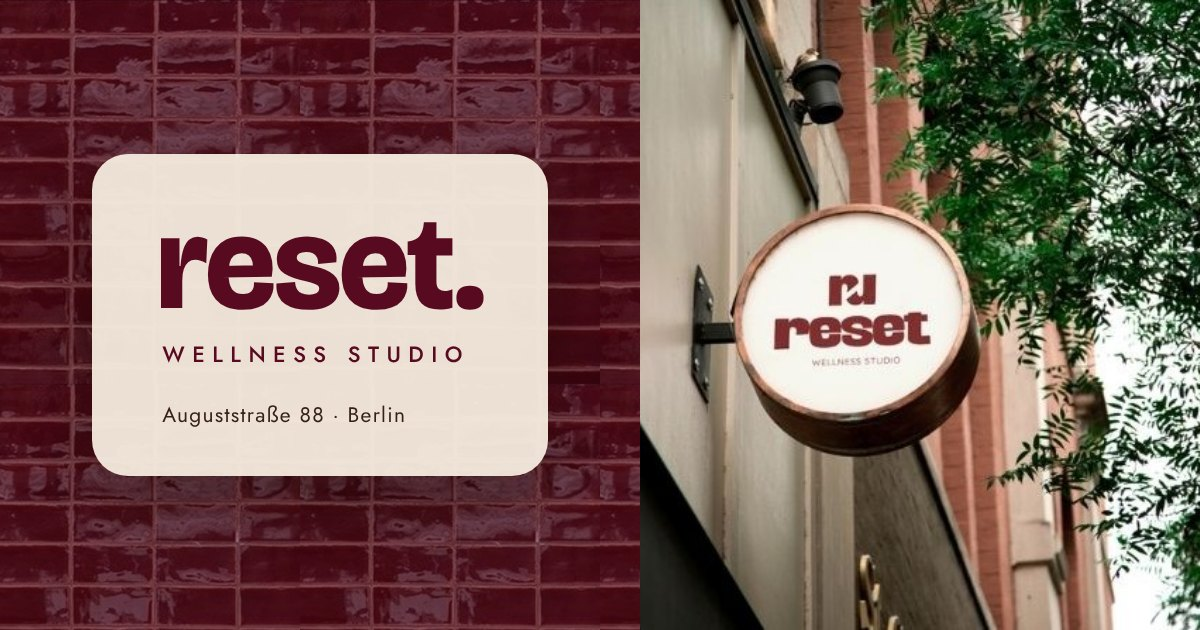
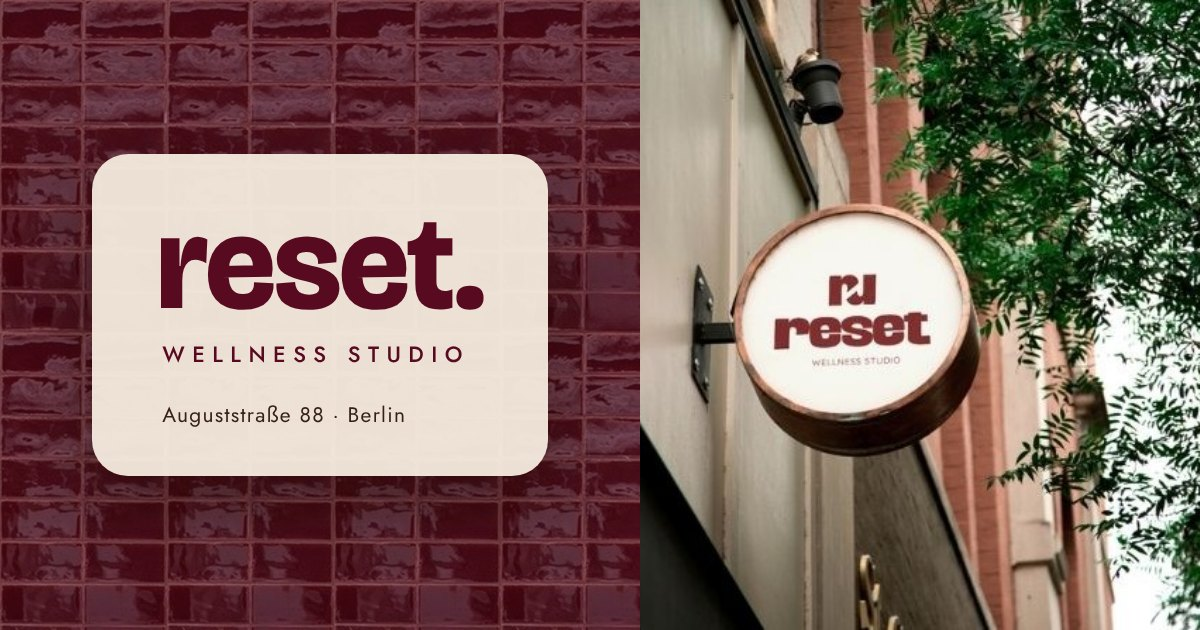
Seamless tile background; footer "Made with love in Berlin" (DE + EN)
- Tile texture cropped exactly on grout lines (2 × 8 tiles) so repeats join
  without half tiles or broken lines; saved as tile-grid.jpg (new name so
  browsers don't reuse the cached old image) and shown at 167px / 144px to
  keep the tiles the same size on screen
- Link preview image regenerated with the seamless tile
- Footer: "Made with love in Berlin" / "Mit Liebe gemacht in Berlin"

Claude-Session: https://claude.ai/code/session_01ANR34ngYs6qHQdxGYaBLbF

Changed region(s): [[0.0, 0.0, 0.555, 1.0]]

diff --git a/assets/css/site.css b/assets/css/site.css
@@ -29,18 +29,18 @@ h1,h2,h3{overflow-wrap:break-word;hyphens:manual}
 .btn-tier-dark:hover{background-color:#580a20 !important;color:#f7ede0 !important;border-color:#580a20 !important}
 .txt-link{text-decoration:none;border-bottom:1px solid currentColor;padding-bottom:3px;transition:opacity .2s ease}
 .txt-link:hover{opacity:.65}
-.tile-brown{background-color:#4a0b1b;background-image:linear-gradient(rgba(74,8,26,0.45),rgba(74,8,26,0.45)),url(../images/tile.jpg);background-size:auto,300px auto;background-attachment:fixed}
+.tile-brown{background-color:#4a0b1b;background-image:linear-gradient(rgba(74,8,26,0.45),rgba(74,8,26,0.45)),url(../images/tile-grid.jpg);background-size:auto,167px auto;background-attachment:fixed}
 .btn-dark{transition:background-color .3s ease,transform .3s ease}
 .btn-dark:hover{background-color:#580a20 !important;color:#f7ede0 !important;border-color:#580a20 !important;transform:translateY(-1px)}
 .btn-light{transition:background-color .3s ease,transform .3s ease}
 .btn-light:hover{background-color:#ffffff !important;color:#362017 !important;border-color:#ffffff !important;transform:translateY(-1px)}
-.tile-soft{background-color:#4a0b1b;background-image:linear-gradient(rgba(88,10,32,0.28),rgba(88,10,32,0.28)),url(../images/tile.jpg);background-size:auto,300px auto;background-attachment:fixed}
+.tile-soft{background-color:#4a0b1b;background-image:linear-gradient(rgba(88,10,32,0.28),rgba(88,10,32,0.28)),url(../images/tile-grid.jpg);background-size:auto,167px auto;background-attachment:fixed}
 .btn-wine{transition:background-color .3s ease}
 .btn-wine:hover{background-color:#362017 !important}
-.tile-plum{background-color:#4a0b1b;background-image:linear-gradient(rgba(88,10,32,0.42),rgba(88,10,32,0.42)),url(../images/tile.jpg);background-size:auto,300px auto;background-attachment:fixed}
+.tile-plum{background-color:#4a0b1b;background-image:linear-gradient(rgba(88,10,32,0.42),rgba(88,10,32,0.42)),url(../images/tile-grid.jpg);background-size:auto,167px auto;background-attachment:fixed}
 .btn-tier-wine{transition:background-color .3s ease}
 .btn-tier-wine:hover{background-color:#362017 !important;border-color:#362017 !important}
-.tile-bg{background-image:url(../images/tile.jpg);background-repeat:repeat;background-size:260px auto}
+.tile-bg{background-image:url(../images/tile-grid.jpg);background-repeat:repeat;background-size:144px auto}
 @keyframes rs-spin{to{transform:rotate(360deg)}}
 @keyframes rs-marquee{to{transform:translateX(-50%)}}
 @keyframes rs-float{0%,100%{transform:translate(0,0) scale(1)}50%{transform:translate(28px,-22px) scale(1.06)}}
@@ -77,7 +77,7 @@ h1,h2,h3{overflow-wrap:break-word;hyphens:manual}
 
 /* phone */
 @media (max-width: 700px){
-  .tile-plum,.tile-brown,.tile-soft{background-color:#4a0b1b;background-image:linear-gradient(rgba(88,10,32,0.28),rgba(88,10,32,0.28)),url(../images/tile.jpg);background-size:auto,300px auto;background-attachment:fixed}
+  .tile-plum,.tile-brown,.tile-soft{background-color:#4a0b1b;background-image:linear-gradient(rgba(88,10,32,0.28),rgba(88,10,32,0.28)),url(../images/tile-grid.jpg);background-size:auto,167px auto;background-attachment:fixed}
   [style*="grid-template-columns: repeat(auto-fit"]{grid-template-columns:minmax(0, 1fr) !important}
   [style*="max-width: 1200px"],[style*="max-width: 1320px"],[style*="max-width: 1100px"]{padding-left:20px !important;padding-right:20px !important}
   [data-sec]{padding-top:64px !important;padding-bottom:64px !important;min-height:0 !important}

diff --git a/de/agb.html b/de/agb.html
@@ -23,8 +23,8 @@
 <style>
 body{margin:0;background:#f7ede0}
 a{color:#580a20}a:hover{color:#362017}
-.tile-brown{background-color:#4a0b1b;background-image:linear-gradient(rgba(74,8,26,0.45),rgba(74,8,26,0.45)),url(../assets/images/tile.jpg);background-size:auto,300px auto;background-attachment:fixed}
-.tile-plum{background-color:#4a0b1b;background-image:linear-gradient(rgba(88,10,32,0.42),rgba(88,10,32,0.42)),url(../assets/images/tile.jpg);background-size:auto,300px auto;background-attachment:fixed}
+.tile-brown{background-color:#4a0b1b;background-image:linear-gradient(rgba(74,8,26,0.45),rgba(74,8,26,0.45)),url(../assets/images/tile-grid.jpg);background-size:auto,167px auto;background-attachment:fixed}
+.tile-plum{background-color:#4a0b1b;background-image:linear-gradient(rgba(88,10,32,0.42),rgba(88,10,32,0.42)),url(../assets/images/tile-grid.jpg);background-size:auto,167px auto;background-attachment:fixed}
 </style>
 </head>
 <body>
@@ -222,7 +222,7 @@ Sa  9 bis 17 Uhr</div>
 </div>
 <div style="border-top: 1px solid rgba(247,237,224,0.16); padding-top: 22px; display: flex; flex-wrap: wrap; justify-content: space-between; gap: 12px; font-size: 12.5px; letter-spacing: 0.08em; opacity: 0.75">
 <span>© 2026 Reset Wellness</span>
-<span>Mit Ruhe gemacht in Berlin</span>
+<span>Mit Liebe gemacht in Berlin</span>
 </div>
 </div>
 </footer>

diff --git a/de/datenschutz.html b/de/datenschutz.html
@@ -23,8 +23,8 @@
 <style>
 body{margin:0;background:#f7ede0}
 a{color:#580a20}a:hover{color:#362017}
-.tile-brown{background-color:#4a0b1b;background-image:linear-gradient(rgba(74,8,26,0.45),rgba(74,8,26,0.45)),url(../assets/images/tile.jpg);background-size:auto,300px auto;background-attachment:fixed}
-.tile-plum{background-color:#4a0b1b;background-image:linear-gradient(rgba(88,10,32,0.42),rgba(88,10,32,0.42)),url(../assets/images/tile.jpg);background-size:auto,300px auto;background-attachment:fixed}
+.tile-brown{background-color:#4a0b1b;background-image:linear-gradient(rgba(74,8,26,0.45),rgba(74,8,26,0.45)),url(../assets/images/tile-grid.jpg);background-size:auto,167px auto;background-attachment:fixed}
+.tile-plum{background-color:#4a0b1b;background-image:linear-gradient(rgba(88,10,32,0.42),rgba(88,10,32,0.42)),url(../assets/images/tile-grid.jpg);background-size:auto,167px auto;background-attachment:fixed}
 </style>
 </head>
 <body>
@@ -211,7 +211,7 @@ Sa  9 bis 17 Uhr</div>
 </div>
 <div style="border-top: 1px solid rgba(247,237,224,0.16); padding-top: 22px; display: flex; flex-wrap: wrap; justify-content: space-between; gap: 12px; font-size: 12.5px; letter-spacing: 0.08em; opacity: 0.75">
 <span>© 2026 Reset Wellness</span>
-<span>Mit Ruhe gemacht in Berlin</span>
+<span>Mit Liebe gemacht in Berlin</span>
 </div>
 </div>
 </footer>

diff --git a/de/impressum.html b/de/impressum.html
@@ -23,8 +23,8 @@
 <style>
 body{margin:0;background:#f7ede0}
 a{color:#580a20}a:hover{color:#362017}
-.tile-brown{background-color:#4a0b1b;background-image:linear-gradient(rgba(74,8,26,0.45),rgba(74,8,26,0.45)),url(../assets/images/tile.jpg);background-size:auto,300px auto;background-attachment:fixed}
-.tile-plum{background-color:#4a0b1b;background-image:linear-gradient(rgba(88,10,32,0.42),rgba(88,10,32,0.42)),url(../assets/images/tile.jpg);background-size:auto,300px auto;background-attachment:fixed}
+.tile-brown{background-color:#4a0b1b;background-image:linear-gradient(rgba(74,8,26,0.45),rgba(74,8,26,0.45)),url(../assets/images/tile-grid.jpg);background-size:auto,167px auto;background-attachment:fixed}
+.tile-plum{background-color:#4a0b1b;background-image:linear-gradient(rgba(88,10,32,0.42),rgba(88,10,32,0.42)),url(../assets/images/tile-grid.jpg);background-size:auto,167px auto;background-attachment:fixed}
 </style>
 </head>
 <body>
@@ -198,7 +198,7 @@ Sa  9 bis 17 Uhr</div>
 </div>
 <div style="border-top: 1px solid rgba(247,237,224,0.16); padding-top: 22px; display: flex; flex-wrap: wrap; justify-content: space-between; gap: 12px; font-size: 12.5px; letter-spacing: 0.08em; opacity: 0.75">
 <span>© 2026 Reset Wellness</span>
-<span>Mit Ruhe gemacht in Berlin</span>
+<span>Mit Liebe gemacht in Berlin</span>
 </div>
 </div>
 </footer>

diff --git a/en/legal-notice.html b/en/legal-notice.html
@@ -23,8 +23,8 @@
 <style>
 body{margin:0;background:#f7ede0}
 a{color:#580a20}a:hover{color:#362017}
-.tile-brown{background-color:#4a0b1b;background-image:linear-gradient(rgba(74,8,26,0.45),rgba(74,8,26,0.45)),url(../assets/images/tile.jpg);background-size:auto,300px auto;background-attachment:fixed}
-.tile-plum{background-color:#4a0b1b;background-image:linear-gradient(rgba(88,10,32,0.42),rgba(88,10,32,0.42)),url(../assets/images/tile.jpg);background-size:auto,300px auto;background-attachment:fixed}
+.tile-brown{background-color:#4a0b1b;background-image:linear-gradient(rgba(74,8,26,0.45),rgba(74,8,26,0.45)),url(../assets/images/tile-grid.jpg);background-size:auto,167px auto;background-attachment:fixed}
+.tile-plum{background-color:#4a0b1b;background-image:linear-gradient(rgba(88,10,32,0.42),rgba(88,10,32,0.42)),url(../assets/images/tile-grid.jpg);background-size:auto,167px auto;background-attachment:fixed}
 </style>
 </head>
 <body>
@@ -200,7 +200,7 @@ Sat  9am to 5pm</div>
 </div>
 <div style="border-top: 1px solid rgba(247,237,224,0.16); padding-top: 22px; display: flex; flex-wrap: wrap; justify-content: space-between; gap: 12px; font-size: 12.5px; letter-spacing: 0.08em; opacity: 0.75">
 <span>© 2026 Reset Wellness</span>
-<span>Made slowly in Berlin</span>
+<span>Made with love in Berlin</span>
 </div>
 </div>
 </footer>

diff --git a/en/privacy.html b/en/privacy.html
@@ -23,8 +23,8 @@
 <style>
 body{margin:0;background:#f7ede0}
 a{color:#580a20}a:hover{color:#362017}
-.tile-brown{background-color:#4a0b1b;background-image:linear-gradient(rgba(74,8,26,0.45),rgba(74,8,26,0.45)),url(../assets/images/tile.jpg);background-size:auto,300px auto;background-attachment:fixed}
-.tile-plum{background-color:#4a0b1b;background-image:linear-gradient(rgba(88,10,32,0.42),rgba(88,10,32,0.42)),url(../assets/images/tile.jpg);background-size:auto,300px auto;background-attachment:fixed}
+.tile-brown{background-color:#4a0b1b;background-image:linear-gradient(rgba(74,8,26,0.45),rgba(74,8,26,0.45)),url(../assets/images/tile-grid.jpg);background-size:auto,167px auto;background-attachment:fixed}
+.tile-plum{background-color:#4a0b1b;background-image:linear-gradient(rgba(88,10,32,0.42),rgba(88,10,32,0.42)),url(../assets/images/tile-grid.jpg);background-size:auto,167px auto;background-attachment:fixed}
 </style>
 </head>
 <body>
@@ -213,7 +213,7 @@ Sat  9am to 5pm</div>
 </div>
 <div style="border-top: 1px solid rgba(247,237,224,0.16); padding-top: 22px; display: flex; flex-wrap: wrap; justify-content: space-between; gap: 12px; font-size: 12.5px; letter-spacing: 0.08em; opacity: 0.75">
 <span>© 2026 Reset Wellness</span>
-<span>Made slowly in Berlin</span>
+<span>Made with love in Berlin</span>
 </div>
 </div>
 </footer>

diff --git a/en/terms.html b/en/terms.html
@@ -23,8 +23,8 @@
 <style>
 body{margin:0;background:#f7ede0}
 a{color:#580a20}a:hover{color:#362017}
-.tile-brown{background-color:#4a0b1b;background-image:linear-gradient(rgba(74,8,26,0.45),rgba(74,8,26,0.45)),url(../assets/images/tile.jpg);background-size:auto,300px auto;background-attachment:fixed}
-.tile-plum{background-color:#4a0b1b;background-image:linear-gradient(rgba(88,10,32,0.42),rgba(88,10,32,0.42)),url(../assets/images/tile.jpg);background-size:auto,300px auto;background-attachment:fixed}
+.tile-brown{background-color:#4a0b1b;background-image:linear-gradient(rgba(74,8,26,0.45),rgba(74,8,26,0.45)),url(../assets/images/tile-grid.jpg);background-size:auto,167px auto;background-attachment:fixed}
+.tile-plum{background-color:#4a0b1b;background-image:linear-gradient(rgba(88,10,32,0.42),rgba(88,10,32,0.42)),url(../assets/images/tile-grid.jpg);background-size:auto,167px auto;background-attachment:fixed}
 </style>
 </head>
 <body>
@@ -224,7 +224,7 @@ Sat  9am to 5pm</div>
 </div>
 <div style="border-top: 1px solid rgba(247,237,224,0.16); padding-top: 22px; display: flex; flex-wrap: wrap; justify-content: space-between; gap: 12px; font-size: 12.5px; letter-spacing: 0.08em; opacity: 0.75">
 <span>© 2026 Reset Wellness</span>
-<span>Made slowly in Berlin</span>
+<span>Made with love in Berlin</span>
 </div>
 </div>
 </footer>

diff --git a/de/kontakt.html b/de/kontakt.html
@@ -23,7 +23,7 @@
 <style>
 body{margin:0;background:#f7ede0}
 a{color:#580a20}a:hover{color:#362017}
-.tile-plum{background-color:#4a0b1b;background-image:linear-gradient(rgba(88,10,32,0.42),rgba(88,10,32,0.42)),url(../assets/images/tile.jpg);background-size:auto,300px auto;background-attachment:fixed}
+.tile-plum{background-color:#4a0b1b;background-image:linear-gradient(rgba(88,10,32,0.42),rgba(88,10,32,0.42)),url(../assets/images/tile-grid.jpg);background-size:auto,167px auto;background-attachment:fixed}
 .f-in{width:100%;box-sizing:border-box;min-height:52px;padding:14px 18px;border-radius:14px;border:1px solid rgba(54,32,23,0.28);background:rgba(255,255,255,0.5);font-family:'Glacial Indifference','Jost',sans-serif;font-size:16px;font-weight:300;color:#362017;transition:border-color .2s ease,background-color .2s ease}
 .f-in:hover{border-color:rgba(54,32,23,0.5)}
 .f-in:focus{outline:2px solid #580a20;outline-offset:2px}
@@ -185,7 +185,7 @@ Sa  9 bis 17 Uhr</div>
 </div>
 <div style="border-top: 1px solid rgba(247,237,224,0.16); padding-top: 22px; display: flex; flex-wrap: wrap; justify-content: space-between; gap: 12px; font-size: 12.5px; letter-spacing: 0.08em; opacity: 0.75">
 <span>© 2026 Reset Wellness</span>
-<span>Mit Ruhe gemacht in Berlin</span>
+<span>Mit Liebe gemacht in Berlin</span>
 </div>
 </div>
 </footer>

diff --git a/en/contact.html b/en/contact.html
@@ -23,7 +23,7 @@
 <style>
 body{margin:0;background:#f7ede0}
 a{color:#580a20}a:hover{color:#362017}
-.tile-plum{background-color:#4a0b1b;background-image:linear-gradient(rgba(88,10,32,0.42),rgba(88,10,32,0.42)),url(../assets/images/tile.jpg);background-size:auto,300px auto;background-attachment:fixed}
+.tile-plum{background-color:#4a0b1b;background-image:linear-gradient(rgba(88,10,32,0.42),rgba(88,10,32,0.42)),url(../assets/images/tile-grid.jpg);background-size:auto,167px auto;background-attachment:fixed}
 .f-in{width:100%;box-sizing:border-box;min-height:52px;padding:14px 18px;border-radius:14px;border:1px solid rgba(54,32,23,0.28);background:rgba(255,255,255,0.5);font-family:'Glacial Indifference','Jost',sans-serif;font-size:16px;font-weight:300;color:#362017;transition:border-color .2s ease,background-color .2s ease}
 .f-in:hover{border-color:rgba(54,32,23,0.5)}
 .f-in:focus{outline:2px solid #580a20;outline-offset:2px}
@@ -185,7 +185,7 @@ Sat  9am to 5pm</div>
 </div>
 <div style="border-top: 1px solid rgba(247,237,224,0.16); padding-top: 22px; display: flex; flex-wrap: wrap; justify-content: space-between; gap: 12px; font-size: 12.5px; letter-spacing: 0.08em; opacity: 0.75">
 <span>© 2026 Reset Wellness</span>
-<span>Made slowly in Berlin</span>
+<span>Made with love in Berlin</span>
 </div>
 </div>
 </footer>

diff --git a/de/ueber-uns.html b/de/ueber-uns.html
@@ -23,8 +23,8 @@
 <style>
 body{margin:0;background:#f7ede0}
 a{color:#580a20}a:hover{color:#362017}
-.tile-plum{background-color:#4a0b1b;background-image:linear-gradient(rgba(88,10,32,0.42),rgba(88,10,32,0.42)),url(../assets/images/tile.jpg);background-size:auto,300px auto;background-attachment:fixed}
-.tile-bg{background-image:url(../assets/images/tile.jpg);background-repeat:repeat;background-size:260px auto}
+.tile-plum{background-color:#4a0b1b;background-image:linear-gradient(rgba(88,10,32,0.42),rgba(88,10,32,0.42)),url(../assets/images/tile-grid.jpg);background-size:auto,167px auto;background-attachment:fixed}
+.tile-bg{background-image:url(../assets/images/tile-grid.jpg);background-repeat:repeat;background-size:144px auto}
 </style>
 </head>
 <body>
@@ -196,7 +196,7 @@ Sa  9 bis 17 Uhr</div>
 </div>
 <div style="border-top: 1px solid rgba(247,237,224,0.16); padding-top: 22px; display: flex; flex-wrap: wrap; justify-content: space-between; gap: 12px; font-size: 12.5px; letter-spacing: 0.08em; opacity: 0.75">
 <span>© 2026 Reset Wellness</span>
-<span>Mit Ruhe gemacht in Berlin</span>
+<span>Mit Liebe gemacht in Berlin</span>
 </div>
 </div>
 </footer>

diff --git a/en/about.html b/en/about.html
@@ -23,8 +23,8 @@
 <style>
 body{margin:0;background:#f7ede0}
 a{color:#580a20}a:hover{color:#362017}
-.tile-plum{background-color:#4a0b1b;background-image:linear-gradient(rgba(88,10,32,0.42),rgba(88,10,32,0.42)),url(../assets/images/tile.jpg);background-size:auto,300px auto;background-attachment:fixed}
-.tile-bg{background-image:url(../assets/images/tile.jpg);background-repeat:repeat;background-size:260px auto}
+.tile-plum{background-color:#4a0b1b;background-image:linear-gradient(rgba(88,10,32,0.42),rgba(88,10,32,0.42)),url(../assets/images/tile-grid.jpg);background-size:auto,167px auto;background-attachment:fixed}
+.tile-bg{background-image:url(../assets/images/tile-grid.jpg);background-repeat:repeat;background-size:144px auto}
 </style>
 </head>
 <body>
@@ -196,7 +196,7 @@ Sat  9am to 5pm</div>
 </div>
 <div style="border-top: 1px solid rgba(247,237,224,0.16); padding-top: 22px; display: flex; flex-wrap: wrap; justify-content: space-between; gap: 12px; font-size: 12.5px; letter-spacing: 0.08em; opacity: 0.75">
 <span>© 2026 Reset Wellness</span>
-<span>Made slowly in Berlin</span>
+<span>Made with love in Berlin</span>
 </div>
 </div>
 </footer>

diff --git a/de/index.html b/de/index.html
@@ -29,7 +29,7 @@ a{color:#362017}
 .btn-light:hover{background-color:#ffffff !important;color:#362017 !important;transform:translateY(-1px)}
 .txt-link{text-decoration:none;border-bottom:1px solid currentColor;padding-bottom:3px;transition:opacity .2s ease}
 .txt-link:hover{opacity:.65}
-.tile-brown{background-color:#4a0b1b;background-image:linear-gradient(rgba(74,8,26,0.45),rgba(74,8,26,0.45)),url(../assets/images/tile.jpg);background-size:auto,300px auto;background-attachment:fixed}
+.tile-brown{background-color:#4a0b1b;background-image:linear-gradient(rgba(74,8,26,0.45),rgba(74,8,26,0.45)),url(../assets/images/tile-grid.jpg);background-size:auto,167px auto;background-attachment:fixed}
 </style>
 </head>
 <body>
@@ -197,7 +197,7 @@ Sa  9 bis 17 Uhr</div>
 </div>
 <div style="border-top: 1px solid rgba(247,237,224,0.16); padding-top: 22px; display: flex; flex-wrap: wrap; justify-content: space-between; gap: 12px; font-size: 12.5px; letter-spacing: 0.08em; opacity: 0.75">
 <span>© 2026 Reset Wellness</span>
-<span>Mit Ruhe gemacht in Berlin</span>
+<span>Mit Liebe gemacht in Berlin</span>
 </div>
 </div>
 </footer>
